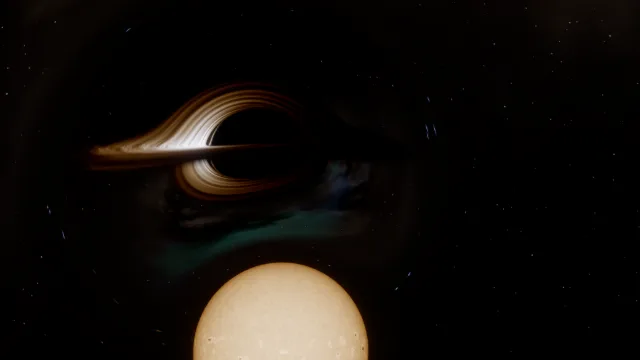
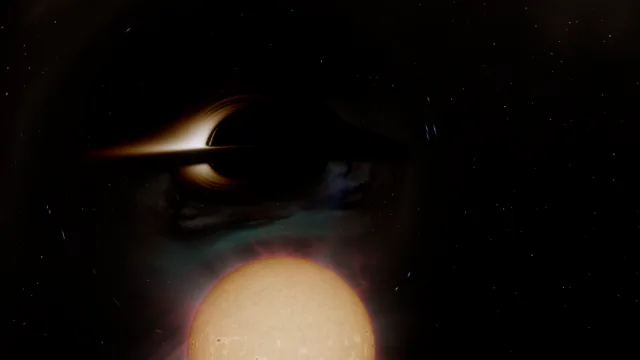
Disk against the film's close pass: hair-thin strands, cool smoke, open lanes; a level of detail
- two fields: the heat (strands: temperature) and the density (clouds,
  smoke: optical depth) — hot and thin glows, cool and dense hides
- rings 45 per unit of ln r (each ~2 % of r) with their own pattern; strands
  ~60:1 along the orbits; lanes torn by the clouds; gaps really open
- level of detail: scales finer than the sample's footprint (pixel, half the
  realtime block, stretched by the grazing angle) fade out keeping the mean
  light (T⁴) — no sparkle in flight, the detail back when refined
- preset "Interstellar: along the disk (the film's close pass)": the
  reference view; the Ranger's approach back to the thin disk (crisp in motion)
- scene thumbnails re-captured

Changed region(s): [[0.2188, 0.6417, 0.625, 1.0], [0.125, 0.2139, 0.4375, 0.5806]]

diff --git a/src/ui/scene-thumbs.ts b/src/ui/scene-thumbs.ts
@@ -3,63 +3,65 @@
 import t0 from "../../assets/scenes/kerr-a-0-94-near-edge-on.webp";
 import t1 from "../../assets/scenes/cinematic-volumetric-disk-jet.webp";
 import t2 from "../../assets/scenes/interstellar-no-shifts.webp";
-import t3 from "../../assets/scenes/ranger-approaching-gargantua.webp";
-import t4 from "../../assets/scenes/interstellar-wormhole-to-gargantua.webp";
-import t5 from "../../assets/scenes/gargantua-system-108-m-a-0-998.webp";
-import t6 from "../../assets/scenes/game-interstellar.webp";
-import t7 from "../../assets/scenes/game-artemis.webp";
-import t8 from "../../assets/scenes/gargantua-system-departure-near-saturn.webp";
-import t9 from "../../assets/scenes/mission-through-the-wormhole-to-the-companion-star-automatic.webp";
-import t10 from "../../assets/scenes/wormhole-our-milky-way-from-gargantua-s-side.webp";
-import t11 from "../../assets/scenes/cinematic-the-liquid-wormhole.webp";
-import t12 from "../../assets/scenes/wormhole-long-throat-images-wrapped-around-it.webp";
-import t13 from "../../assets/scenes/wormhole-strong-lensing-w-0-43.webp";
-import t14 from "../../assets/scenes/the-mouth-before-gargantua-banking-flight.webp";
-import t15 from "../../assets/scenes/companion-star-close-up.webp";
-import t16 from "../../assets/scenes/the-star-passing-gargantua.webp";
-import t17 from "../../assets/scenes/gargantua-under-the-distant-galaxy.webp";
-import t18 from "../../assets/scenes/schwarzschild-no-spin-no-bz-jet.webp";
-import t19 from "../../assets/scenes/luminet-1979-bolometric.webp";
-import t20 from "../../assets/scenes/hot-disk-t-50-000-k-uv-bright-agn.webp";
-import t21 from "../../assets/scenes/eht-m87-at-230-ghz-20-as-beam.webp";
-import t22 from "../../assets/scenes/orbiting-hot-spot-flare-light-echoes.webp";
-import t23 from "../../assets/scenes/face-on-m87-like-hot-flow.webp";
-import t24 from "../../assets/scenes/jet-launch-blazar-like-i-20.webp";
-import t25 from "../../assets/scenes/jet-side-view.webp";
-import t26 from "../../assets/scenes/extreme-spin-a-0-998-edge-on.webp";
-import t27 from "../../assets/scenes/orbiting-at-r-8-aberration.webp";
-import t28 from "../../assets/scenes/falling-in-rain-frame.webp";
-import t29 from "../../assets/scenes/lensing-grid-shadow-guide.webp";
+import t3 from "../../assets/scenes/interstellar-along-the-disk-the-film-s-close-pass.webp";
+import t4 from "../../assets/scenes/ranger-approaching-gargantua.webp";
+import t5 from "../../assets/scenes/interstellar-wormhole-to-gargantua.webp";
+import t6 from "../../assets/scenes/gargantua-system-108-m-a-0-998.webp";
+import t7 from "../../assets/scenes/game-interstellar.webp";
+import t8 from "../../assets/scenes/game-artemis.webp";
+import t9 from "../../assets/scenes/gargantua-system-departure-near-saturn.webp";
+import t10 from "../../assets/scenes/mission-through-the-wormhole-to-the-companion-star-automatic.webp";
+import t11 from "../../assets/scenes/wormhole-our-milky-way-from-gargantua-s-side.webp";
+import t12 from "../../assets/scenes/cinematic-the-liquid-wormhole.webp";
+import t13 from "../../assets/scenes/wormhole-long-throat-images-wrapped-around-it.webp";
+import t14 from "../../assets/scenes/wormhole-strong-lensing-w-0-43.webp";
+import t15 from "../../assets/scenes/the-mouth-before-gargantua-banking-flight.webp";
+import t16 from "../../assets/scenes/companion-star-close-up.webp";
+import t17 from "../../assets/scenes/the-star-passing-gargantua.webp";
+import t18 from "../../assets/scenes/gargantua-under-the-distant-galaxy.webp";
+import t19 from "../../assets/scenes/schwarzschild-no-spin-no-bz-jet.webp";
+import t20 from "../../assets/scenes/luminet-1979-bolometric.webp";
+import t21 from "../../assets/scenes/hot-disk-t-50-000-k-uv-bright-agn.webp";
+import t22 from "../../assets/scenes/eht-m87-at-230-ghz-20-as-beam.webp";
+import t23 from "../../assets/scenes/orbiting-hot-spot-flare-light-echoes.webp";
+import t24 from "../../assets/scenes/face-on-m87-like-hot-flow.webp";
+import t25 from "../../assets/scenes/jet-launch-blazar-like-i-20.webp";
+import t26 from "../../assets/scenes/jet-side-view.webp";
+import t27 from "../../assets/scenes/extreme-spin-a-0-998-edge-on.webp";
+import t28 from "../../assets/scenes/orbiting-at-r-8-aberration.webp";
+import t29 from "../../assets/scenes/falling-in-rain-frame.webp";
+import t30 from "../../assets/scenes/lensing-grid-shadow-guide.webp";
 
 export const SCENE_THUMBS: Record<string, string> = {
   "Kerr a=0.94, near edge-on": t0,
   "Cinematic: volumetric disk + jet": t1,
   "Interstellar (no shifts)": t2,
-  "Ranger: approaching Gargantua": t3,
-  "Interstellar: wormhole to Gargantua": t4,
-  "Gargantua system (10⁸ M☉, a* = 0.998)": t5,
-  "game:interstellar": t6,
-  "game:artemis": t7,
-  "Gargantua system: departure near Saturn": t8,
-  "Mission: through the wormhole to the companion star (automatic flight)": t9,
-  "Wormhole: our Milky Way from Gargantua's side": t10,
-  "Cinematic: the liquid wormhole": t11,
-  "Wormhole: long throat (images wrapped around it)": t12,
-  "Wormhole: strong lensing (W = 0.43 ρ)": t13,
-  "The mouth before Gargantua (banking flight)": t14,
-  "Companion star close-up": t15,
-  "The star passing Gargantua": t16,
-  "Gargantua under the distant galaxy": t17,
-  "Schwarzschild (no spin → no BZ jet)": t18,
-  "Luminet 1979 (bolometric)": t19,
-  "Hot disk (T = 50 000 K, UV-bright AGN)": t20,
-  "EHT: M87* at 230 GHz (20 µas beam)": t21,
-  "Orbiting hot spot (flare, light echoes)": t22,
-  "Face-on (M87*-like hot flow)": t23,
-  "Jet launch (blazar-like, i=20°)": t24,
-  "Jet side view": t25,
-  "Extreme spin a=0.998, edge-on": t26,
-  "Orbiting at r=8 (aberration)": t27,
-  "Falling in (rain frame)": t28,
-  "Lensing grid + shadow guide": t29,
+  "Interstellar: along the disk (the film's close pass)": t3,
+  "Ranger: approaching Gargantua": t4,
+  "Interstellar: wormhole to Gargantua": t5,
+  "Gargantua system (10⁸ M☉, a* = 0.998)": t6,
+  "game:interstellar": t7,
+  "game:artemis": t8,
+  "Gargantua system: departure near Saturn": t9,
+  "Mission: through the wormhole to the companion star (automatic flight)": t10,
+  "Wormhole: our Milky Way from Gargantua's side": t11,
+  "Cinematic: the liquid wormhole": t12,
+  "Wormhole: long throat (images wrapped around it)": t13,
+  "Wormhole: strong lensing (W = 0.43 ρ)": t14,
+  "The mouth before Gargantua (banking flight)": t15,
+  "Companion star close-up": t16,
+  "The star passing Gargantua": t17,
+  "Gargantua under the distant galaxy": t18,
+  "Schwarzschild (no spin → no BZ jet)": t19,
+  "Luminet 1979 (bolometric)": t20,
+  "Hot disk (T = 50 000 K, UV-bright AGN)": t21,
+  "EHT: M87* at 230 GHz (20 µas beam)": t22,
+  "Orbiting hot spot (flare, light echoes)": t23,
+  "Face-on (M87*-like hot flow)": t24,
+  "Jet launch (blazar-like, i=20°)": t25,
+  "Jet side view": t26,
+  "Extreme spin a=0.998, edge-on": t27,
+  "Orbiting at r=8 (aberration)": t28,
+  "Falling in (rain frame)": t29,
+  "Lensing grid + shadow guide": t30,
 };

diff --git a/src/ui/schema.ts b/src/ui/schema.ts
@@ -879,6 +879,7 @@ export const PRESET_INFO: Record<string, { title?: string; description: string; 
   "Gargantua system (10⁸ M☉, a* = 0.998)": { title: "The Gargantua system", description: "10⁸ M☉ spinning at a* = 0.998: Miller's and Mann's planets, the orbiting wormhole mouth, the K2 star far out.", icon: "✺", group: "gargantua" },
   "Gargantua system: departure near Saturn": { title: "Departure near Saturn", description: "Our side: sunlit Saturn, the wormhole mouth waiting behind it.", icon: "♄", group: "gargantua" },
   "Interstellar (no shifts)": { title: "Gargantua, as in the film", description: "Doppler and redshift switched off, as the film did: the symmetric, golden Gargantua.", icon: "◎", group: "gargantua" },
+  "Interstellar: along the disk (the film's close pass)": { title: "Along the disk, as in the film", description: "Skimming the disk beside the shadow: the lensed far side rises as a wall of hot strands and smoke, the reference view for the disk's look.", icon: "≋", group: "gargantua" },
   "Companion star close-up": { description: "The orange star: granulation, spots, prominences and corona, Gargantua beyond.", icon: "☼", group: "gargantua" },
   "The star passing Gargantua": { description: "The star in front of Gargantua, both lensed.", icon: "✹", group: "gargantua" },
   "Gargantua under the distant galaxy": { description: "Gargantua without the wormhole, under the far side's nebulae.", icon: "✧", group: "gargantua" },

diff --git a/src/settings.ts b/src/settings.ts
@@ -410,9 +410,17 @@ export const presets: Record<string, Preset> = {
     spin: 0.6, distance: 34, inclination: 84, fov: 40, yaw: 0, pitch: 0, shiftMode: "none",
     diskTemp: 4500, diskOuter: 26, turbulence: 0.9, diskEmission: "bolometric", diskThickness: 0.02, diskTau: 6, jet: false,
   },
+  // the film's close pass along the disk (the reference view for its look): the lensed far side rising
+  // as a wall of strands beside the shadow, the near side below
+  "Interstellar: along the disk (the film's close pass)": {
+    spin: 0.6, distance: 17.353, inclination: 84.456, azimuth: 40.467, fov: 45, yaw: 31.427, pitch: 6.397, roll: -4.302,
+    motion: "static", shiftMode: "none", diskTemp: 4500, diskOuter: 26, turbulence: 0.95, diskEmission: "bolometric",
+    diskThickness: 0.009, diskTau: 59, jet: false, animate: false, time: 1692.84,
+  },
+  // (a flight: the image never accumulates — the thin disk, crisp in motion, where the volume would be grainy)
   "Ranger: approaching Gargantua": {
     spin: 0.6, distance: 34, inclination: 84, fov: 55, yaw: 0, pitch: 0, roll: 0, shiftMode: "none",
-    diskTemp: 4500, diskOuter: 26, turbulence: 0.9, diskEmission: "bolometric", diskThickness: 0.02, diskTau: 6, jet: false,
+    diskTemp: 4500, diskOuter: 26, turbulence: 0.9, diskEmission: "bolometric", diskThickness: 0, diskTau: 100, jet: false,
     ship: true, shipMount: "quarter",
   },
   "Interstellar: wormhole to Gargantua": {

diff --git a/README.md b/README.md
@@ -30,7 +30,7 @@ Requires a WebGPU browser (Chrome/Edge ≥ 113, Safari 26, Firefox 141+).
 | Colour | Planck spectrum × CIE 1931 observer → linear sRGB LUT; or bolometric g⁴σT⁴ mode (Luminet 1979) |
 | Limb darkening | Chandrasekhar electron-scattering law, emission angle measured in the fluid frame |
 | Light travel time | Disk turbulence, jet knots and the hot spot are evaluated at the retarded (emission) time along each ray |
-| Disk turbulence | The look of Interstellar's Gargantua: fibrous strands drawn out along the orbits, flame-like wisps at the surface, dark lanes, hotter clumps (gradient noise, domain-warped). The gas orbits: thin rings (14 per unit of ln r) each turn rigidly at their Keplerian rate, forever — no spiral winding, no pattern resets — their neighbours blended across them |
+| Disk turbulence | The look of Interstellar's Gargantua: hair-thin hot strands drawn out along the orbits (~60 : 1), breaking up into clouds, dense cool smoke that darkens what lies behind it, open lanes — two fields, the heat (temperature) and the density (optical depth). The gas orbits: thin rings (45 per unit of ln r) each turn rigidly at their Keplerian rate, forever, each with its own pattern — no spiral winding, no pattern resets. Scales finer than the sample's footprint (pixel or realtime block, stretched by the grazing angle) fade out, keeping the mean light |
 | Returning radiation | Disk light bent back onto the disk (Cunningham 1976): one cosine-weighted secondary geodesic per disk hit, blackbody at g₁₂T₂ re-emitted with an albedo (quality passes) |
 | Polarization | Walker–Penrose constant κ = (A − iB)(r − ia cos θ) carried along every geodesic and inverted at the camera: exact EVPA for any observer. Disk: Chandrasekhar scattering polarization; hot flow & jet: synchrotron E ⟂ B (toroidal/radial/vertical/spiral fields). EHT-style ticks, polarized-intensity view |
 | Millimetre band | 86/230/345 GHz thermal synchrotron with self-absorption: dT_b/ds = α_ν(ν/g)(g·T_e − T_b) (Kirchhoff + I_ν/ν³ invariance), RIAF profiles; afmhot 230 GHz view, false colour, instrument beam (EHT 20 µas) |
